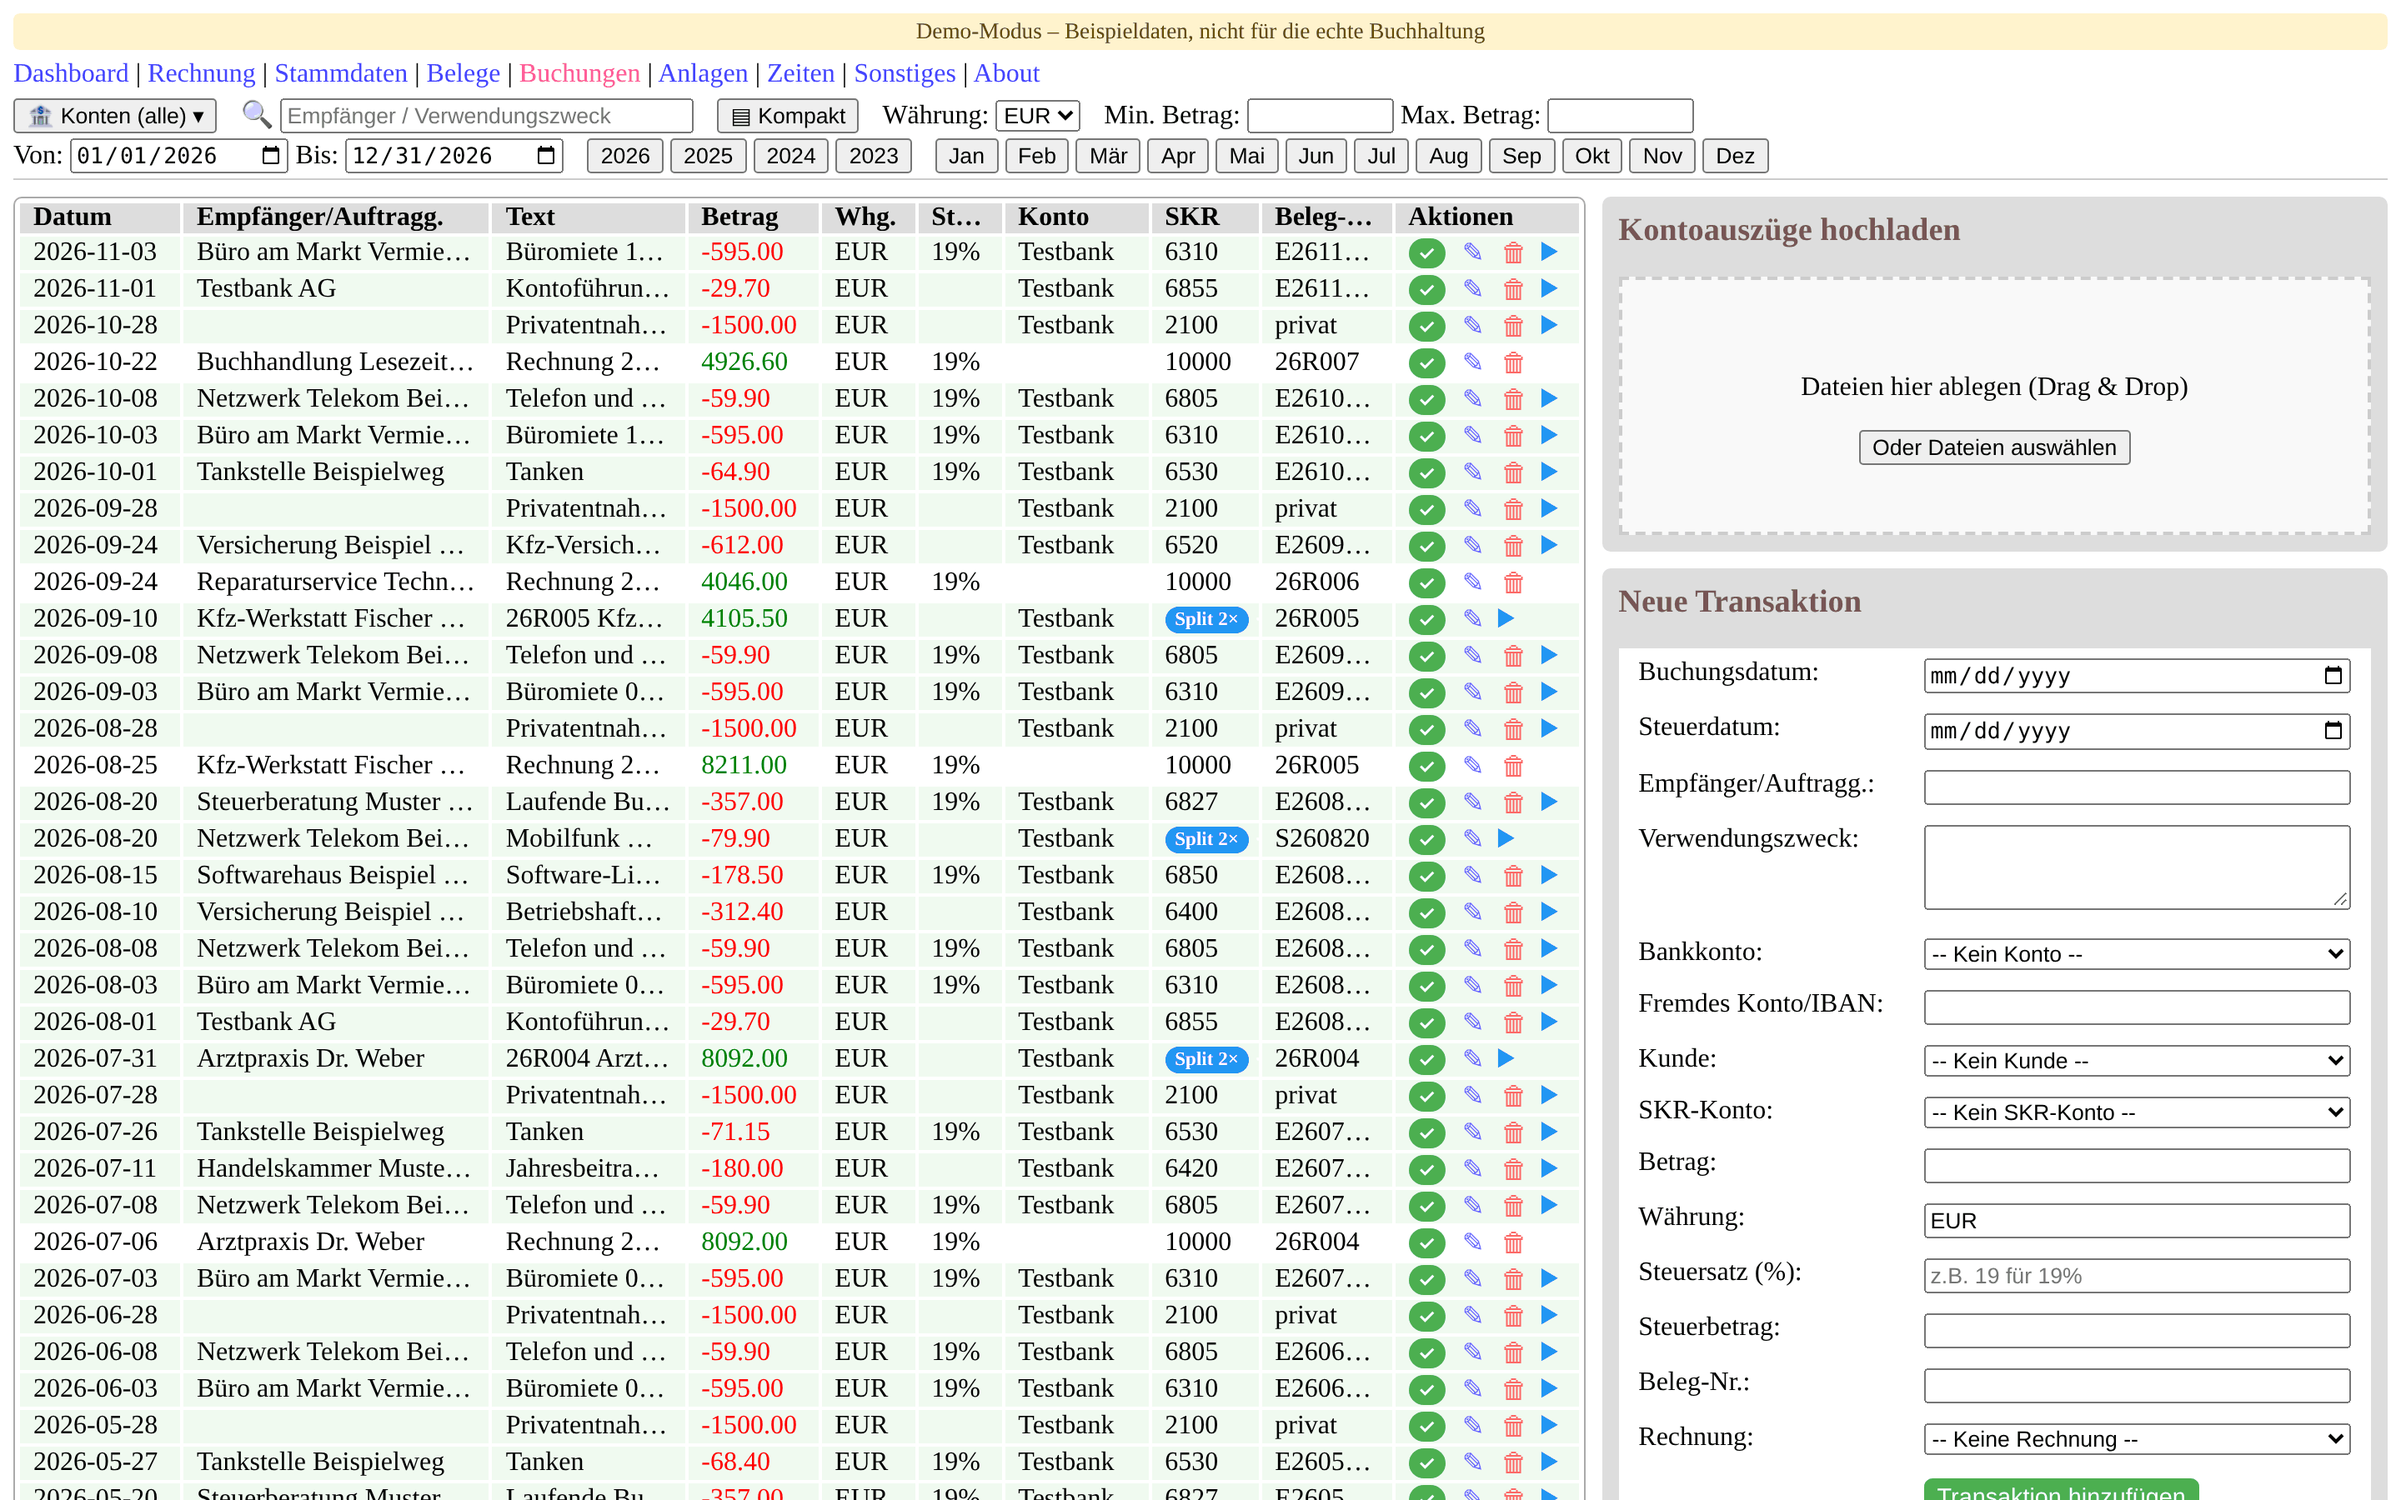
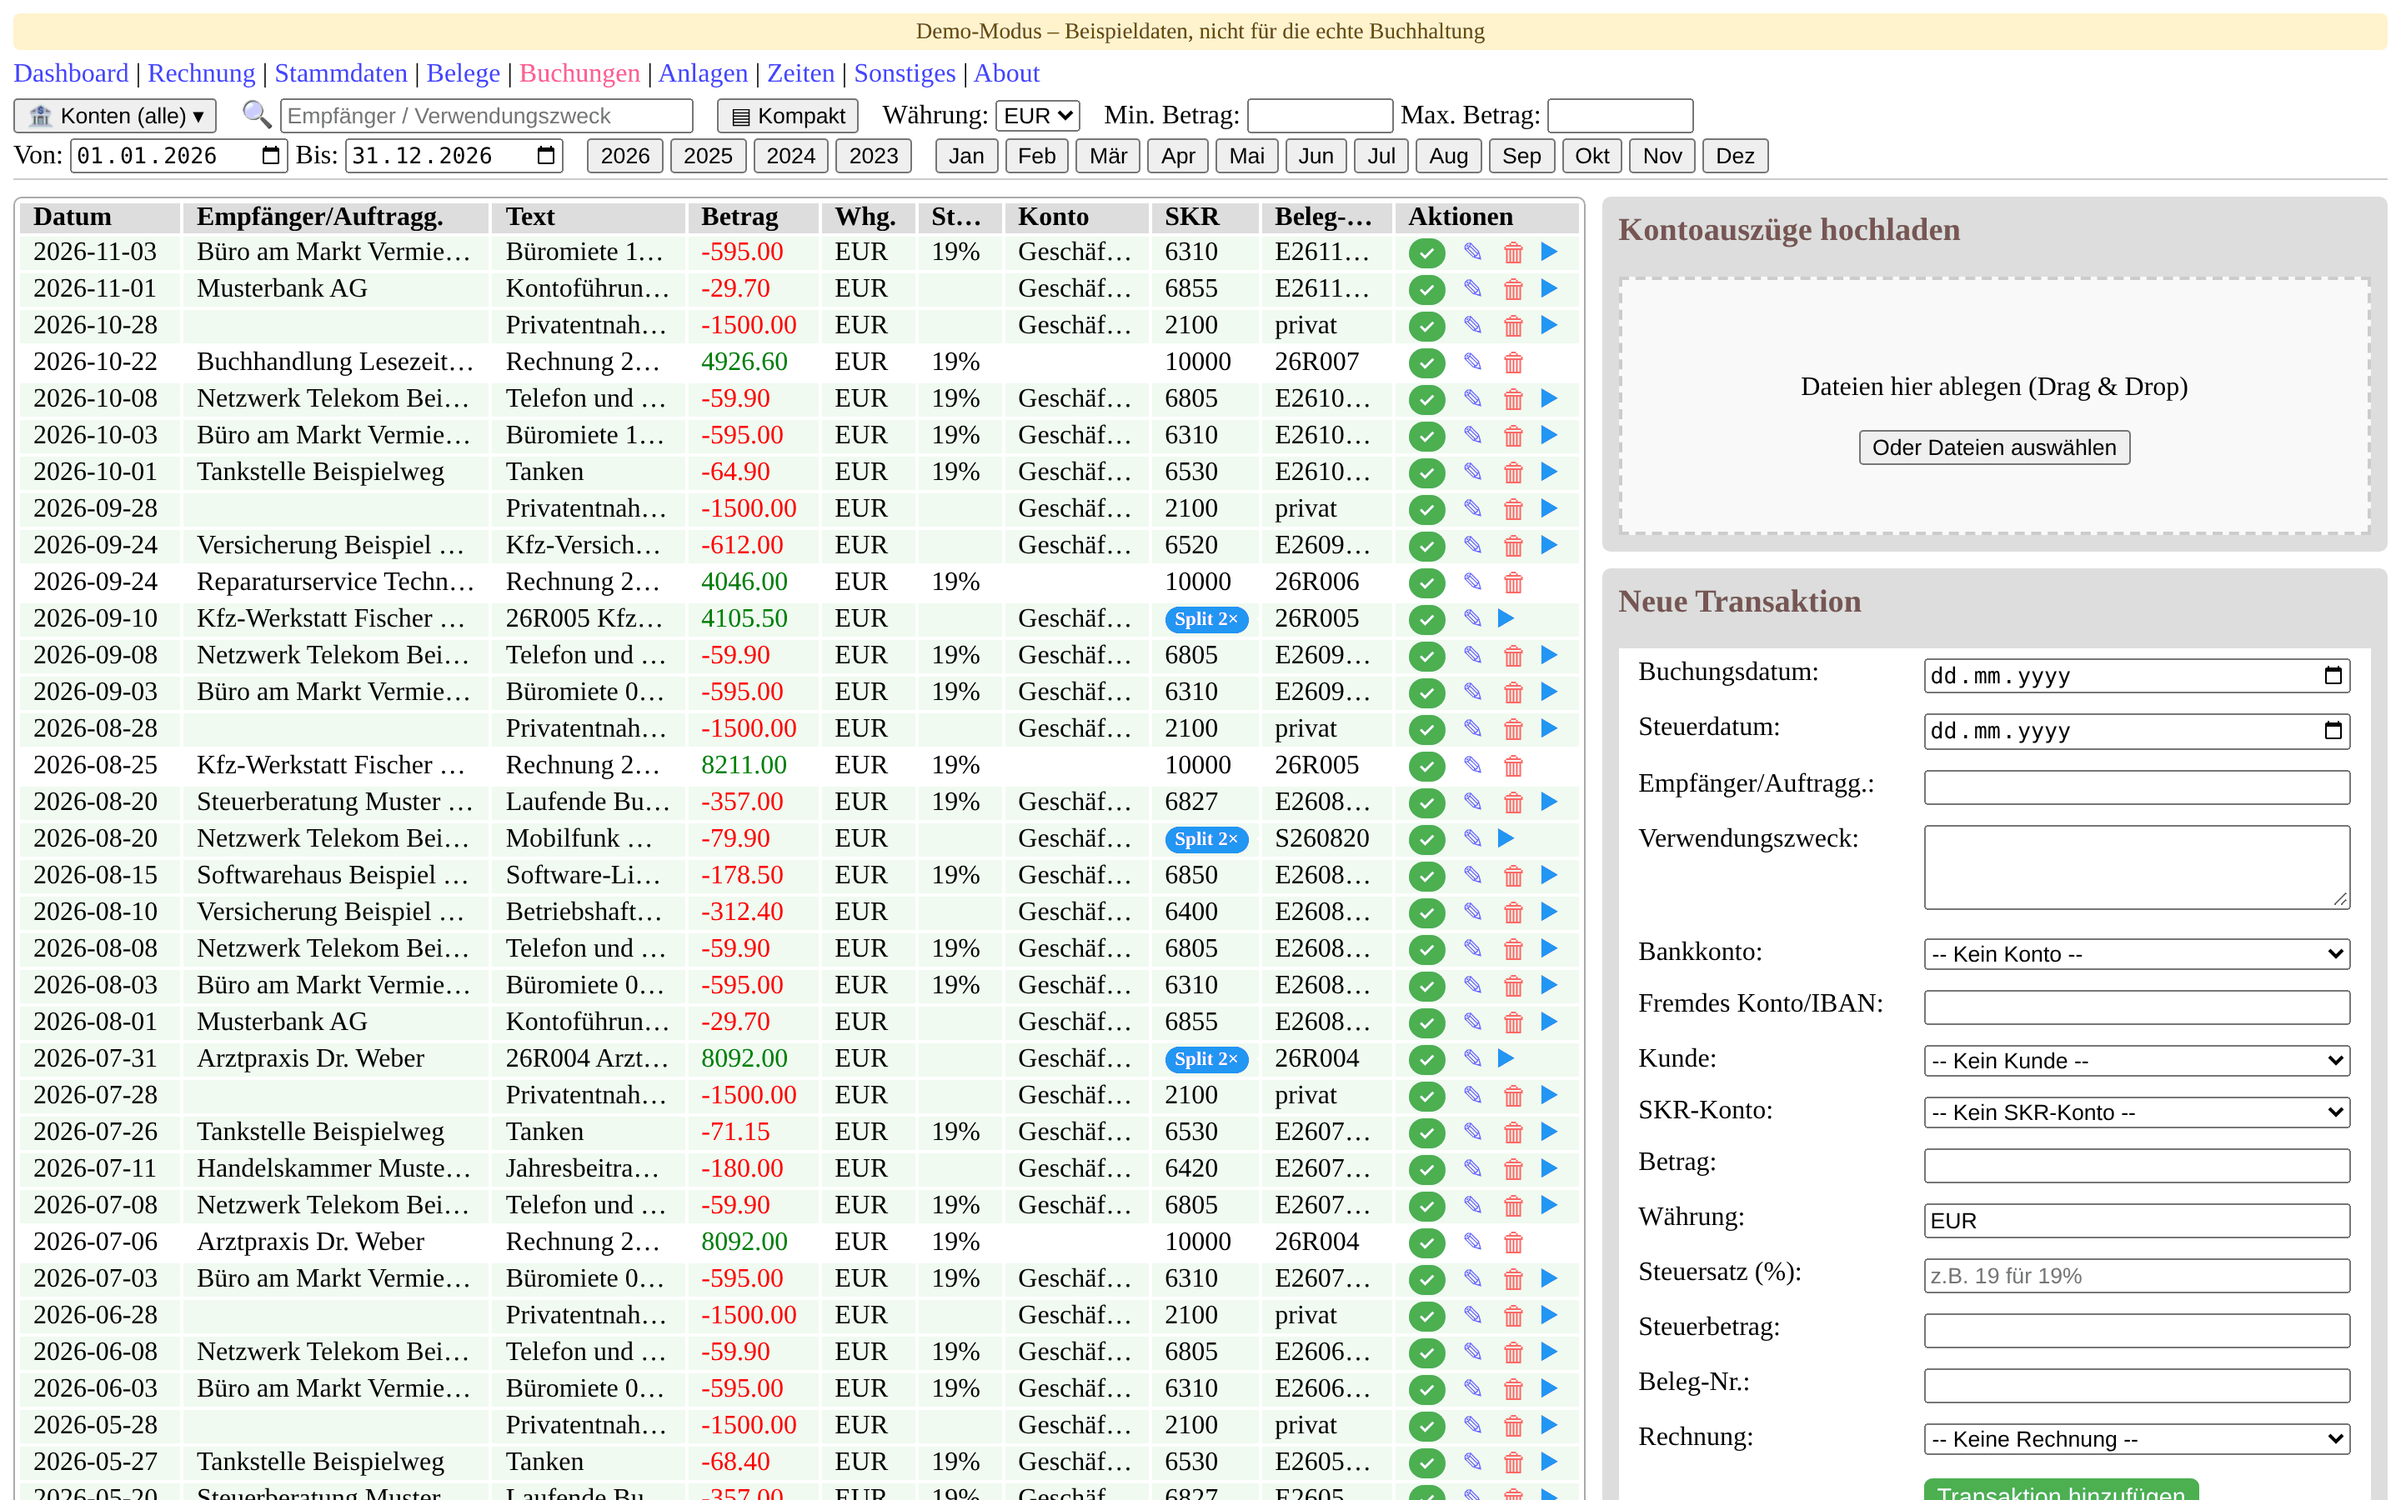
feat(demo): Konten im Demo-Seed umbenannt, Screenshots mit deutschem Gebietsschema
Geschäftskonto/Tagesgeld/Portokasse statt Test-Namen (nur Demo-Seed,
Testdaten für pytest unberührt); Screenshot-Browser mit de-DE-Umgebung
(Datumsfelder TT.MM.JJJJ).

Claude-Session: https://claude.ai/code/session_01M3H1K41Tb7nHrxVaEZmxao

diff --git a/demo_seed.py b/demo_seed.py
@@ -50,6 +50,25 @@ def _clip_day(first, day):
     return first.replace(day=min(day, last))
 
 
+def rename_demo_accounts(db, renames):
+    """Konten der Testdaten für die Demo schöner benennen (App-Pfad
+    ``update_account``; IBAN/BIC/SKR bleiben). ``renames``: {alter Name:
+    {"name": …, "bank_name": …}}. Idempotent – fehlende alte Namen werden
+    übersprungen."""
+    for old, new in renames.items():
+        conn = db._get_connection()
+        cur = conn.cursor()
+        cur.execute("SELECT ID, Owner, Number, BIC, BankName, SKRAccount FROM Accounts "
+                    "WHERE Name = ?", (old,))
+        row = cur.fetchone()
+        conn.close()
+        if not row:
+            continue
+        acc_id, owner, number, bic, bank_name, skr = row
+        db.update_account(acc_id, new["name"], owner, number, bic,
+                          new.get("bank_name", bank_name), skr)
+
+
 class DemoScenario:
     def __init__(self, db, today=None, scenario=None):
         self.db = db
@@ -58,6 +77,8 @@ class DemoScenario:
             with open(SCENARIO_FILE, encoding="utf-8") as f:
                 scenario = json.load(f)
         self.sc = scenario
+        # Vor allem anderen: Rechnungs-Snapshots übernehmen den Banknamen
+        rename_demo_accounts(db, self.sc.get("account_renames", {}))
         conn = db._get_connection()
         cur = conn.cursor()
         cur.execute("SELECT ID, SKRAccount FROM Accounts WHERE Name = ?",
